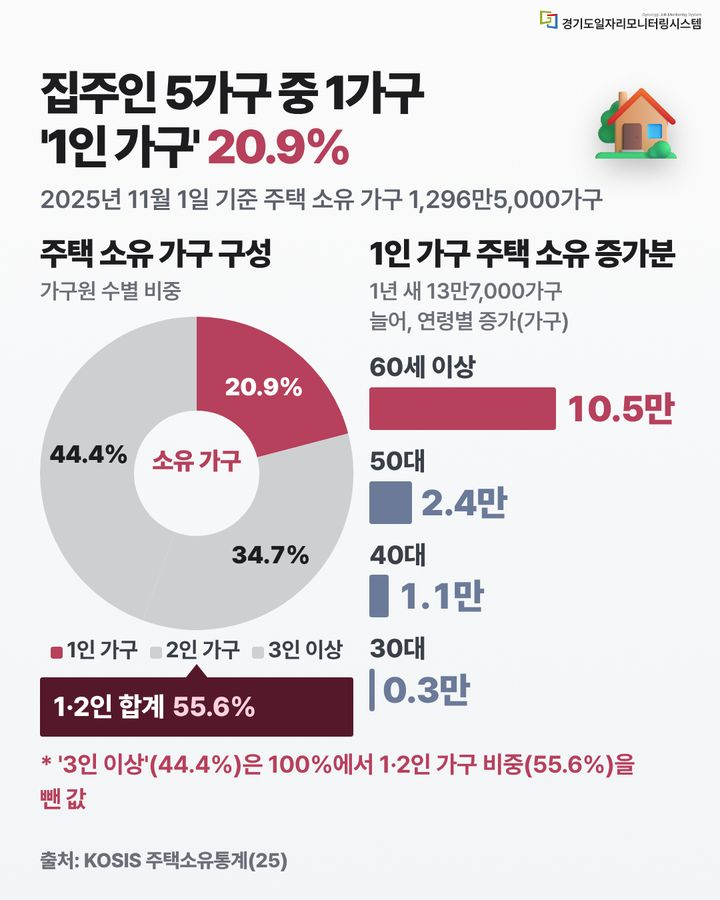
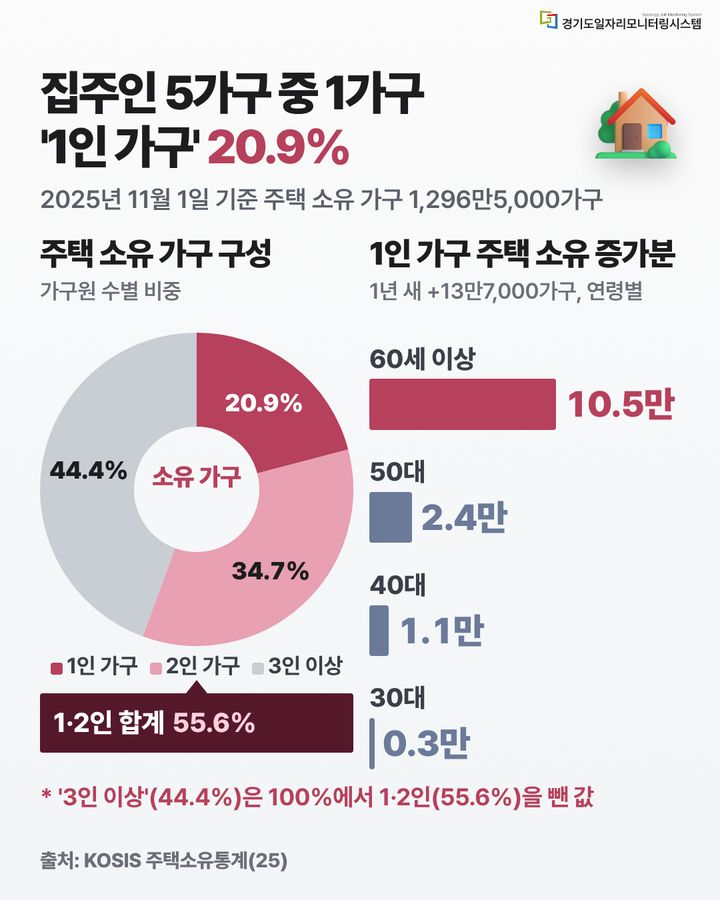
261124 웹페이지 최종 확정본 갱신
Claude-Session: https://claude.ai/code/session_015uJhCQnpBJPePtGQu9LJ56

Changed region(s): [[0.0306, 0.3422, 0.8861, 0.9022], [0.4889, 0.3111, 0.9167, 0.4356], [0.7944, 0.4356, 0.9472, 0.4667]]

diff --git a/daily/2026-11-24/index.html b/daily/2026-11-24/index.html
@@ -1,20 +1,20 @@
 <!doctype html><html lang="ko"><head><meta charset="utf-8"><meta name="viewport" content="width=device-width,initial-scale=1"><title>11.24.(화) 데일리 그래픽뉴스 | 경기도일자리모니터링시스템</title>
 <meta property="og:title" content="11.24.(화) 데일리 그래픽뉴스 | 경기도일자리모니터링시스템"><meta property="og:description" content="오늘의 일자리·경제 뉴스·통계 15건, 제목과 출처를 확인하세요"><meta property="og:image" content="https://gjfdata.github.io/daily/2026-11-24/preview.jpg"><meta property="og:url" content="https://gjfdata.github.io/daily/2026-11-24/"><meta property="og:type" content="website"><meta name="description" content="오늘의 일자리·경제 뉴스·통계 15건, 제목과 출처를 확인하세요">
 <link rel="stylesheet" href="https://cdn.jsdelivr.net/gh/orioncactus/pretendard@v1.3.9/dist/web/static/pretendard.css"><link rel="stylesheet" href="../../assets/style.css"></head><body><div class="w"><img class="ci" src="../../assets/ci.png" alt="경기도일자리모니터링시스템"><h1>11.24.(화) 데일리 그래픽뉴스</h1><p class="sub">오늘의 일자리·경제 뉴스·통계 15건</p>
-<div class="grid"><button data-card="cards/01.jpg" aria-label="01번 카드 크게 보기"><img src="cards/01.jpg" alt="01번 카드: 남녀 임금 격차 27.8% OECD 13개국 중 1위" loading="lazy"><span>01</span></button><button data-card="cards/02.jpg" aria-label="02번 카드 크게 보기"><img src="cards/02.jpg" alt="02번 카드: 정년 65세 연장 정부 연내 처리 vs 국민의힘 신중론" loading="lazy"><span>02</span></button><button data-card="cards/03.jpg" aria-label="03번 카드 크게 보기"><img src="cards/03.jpg" alt="03번 카드: 경기도 10월 수출 466.8억 달러 전국 1위" loading="lazy"><span>03</span></button><button data-card="cards/04.jpg" aria-label="04번 카드 크게 보기"><img src="cards/04.jpg" alt="04번 카드: 11월 1~20일 수출 774억 달러 101.5% 증가" loading="lazy"><span>04</span></button><button data-card="cards/05.jpg" aria-label="05번 카드 크게 보기"><img src="cards/05.jpg" alt="05번 카드: 11월 소비자심리지수 103.1 두 달 연속 하락" loading="lazy"><span>05</span></button><button data-card="cards/06.jpg" aria-label="06번 카드 크게 보기"><img src="cards/06.jpg" alt="06번 카드: 코스피 11월 -17.8%, 올해 월간 등락률" loading="lazy"><span>06</span></button><button data-card="cards/07.jpg" aria-label="07번 카드 크게 보기"><img src="cards/07.jpg" alt="07번 카드: 개미 563조 손실 추산, 외국인 224조 순매도" loading="lazy"><span>07</span></button><button data-card="cards/08.jpg" aria-label="08번 카드 크게 보기"><img src="cards/08.jpg" alt="08번 카드: 1~9월 나랏빚 이자 25조7,760억 원 역대 최대" loading="lazy"><span>08</span></button><button data-card="cards/09.jpg" aria-label="09번 카드 크게 보기"><img src="cards/09.jpg" alt="09번 카드: 배달 치킨 2만5천원 중 6,100원이 수수료·배달비" loading="lazy"><span>09</span></button><button data-card="cards/10.jpg" aria-label="10번 카드 크게 보기"><img src="cards/10.jpg" alt="10번 카드: 생계급여 기준 중위소득 32→35%로 확대" loading="lazy"><span>10</span></button><button data-card="cards/11.jpg" aria-label="11번 카드 크게 보기"><img src="cards/11.jpg" alt="11번 카드: 주택 소유 가구 5곳 중 1곳은 1인 가구" loading="lazy"><span>11</span></button><button data-card="cards/12.jpg" aria-label="12번 카드 크게 보기"><img src="cards/12.jpg" alt="12번 카드: 젠슨 황 복귀에 엔비디아 31.5% 폭등 나스닥 6.51%" loading="lazy"><span>12</span></button><button data-card="cards/13.jpg" aria-label="13번 카드 크게 보기"><img src="cards/13.jpg" alt="13번 카드: 최태원, 노소영에 재산분할 9440억 전액 지급 의사" loading="lazy"><span>13</span></button><button data-card="cards/14.jpg" aria-label="14번 카드 크게 보기"><img src="cards/14.jpg" alt="14번 카드: 미국 피자 매장 7년 새 9,600곳 감소" loading="lazy"><span>14</span></button><button data-card="cards/15.jpg" aria-label="15번 카드 크게 보기"><img src="cards/15.jpg" alt="15번 카드: 국정원장 강금실 등 5개 부처 장관급 개각" loading="lazy"><span>15</span></button></div><p class="hint">카드를 누르면 한 장씩 크게 볼 수 있습니다.</p><ol>
+<div class="grid"><button data-card="cards/01.jpg" aria-label="01번 카드 크게 보기"><img src="cards/01.jpg" alt="01번 카드: 남녀 임금 격차 27.8% OECD 13개국 중 1위" loading="lazy"><span>01</span></button><button data-card="cards/02.jpg" aria-label="02번 카드 크게 보기"><img src="cards/02.jpg" alt="02번 카드: 정년 65세 연장 정부 연내 처리 vs 국민의힘 신중론" loading="lazy"><span>02</span></button><button data-card="cards/03.jpg" aria-label="03번 카드 크게 보기"><img src="cards/03.jpg" alt="03번 카드: 경기도 10월 수출 466.8억 달러 전국 1위" loading="lazy"><span>03</span></button><button data-card="cards/04.jpg" aria-label="04번 카드 크게 보기"><img src="cards/04.jpg" alt="04번 카드: 11월 1~20일 수출 774억 달러 101.5% 증가" loading="lazy"><span>04</span></button><button data-card="cards/05.jpg" aria-label="05번 카드 크게 보기"><img src="cards/05.jpg" alt="05번 카드: 11월 소비자심리지수 103.1 두 달 연속 하락" loading="lazy"><span>05</span></button><button data-card="cards/06.jpg" aria-label="06번 카드 크게 보기"><img src="cards/06.jpg" alt="06번 카드: 코스피 11월 -17.8%, 올해 월간 등락률" loading="lazy"><span>06</span></button><button data-card="cards/07.jpg" aria-label="07번 카드 크게 보기"><img src="cards/07.jpg" alt="07번 카드: 개미 563조 손실 추산, 외국인 224조 순매도" loading="lazy"><span>07</span></button><button data-card="cards/08.jpg" aria-label="08번 카드 크게 보기"><img src="cards/08.jpg" alt="08번 카드: 1~9월 나랏빚 이자 25조7,760억 원 역대 최대" loading="lazy"><span>08</span></button><button data-card="cards/09.jpg" aria-label="09번 카드 크게 보기"><img src="cards/09.jpg" alt="09번 카드: 배달 치킨 2만5천원 중 6,100원이 수수료·배달비" loading="lazy"><span>09</span></button><button data-card="cards/10.jpg" aria-label="10번 카드 크게 보기"><img src="cards/10.jpg" alt="10번 카드: 생계급여 기준 중위소득 32→35%로 확대" loading="lazy"><span>10</span></button><button data-card="cards/11.jpg" aria-label="11번 카드 크게 보기"><img src="cards/11.jpg" alt="11번 카드: 주택 소유 가구 5곳 중 1곳은 1인 가구" loading="lazy"><span>11</span></button><button data-card="cards/12.jpg" aria-label="12번 카드 크게 보기"><img src="cards/12.jpg" alt="12번 카드: 젠슨 황 복귀에 엔비디아 31.5% 폭등 나스닥 6.51%" loading="lazy"><span>12</span></button><button data-card="cards/13.jpg" aria-label="13번 카드 크게 보기"><img src="cards/13.jpg" alt="13번 카드: 손정의 SK하이닉스 1조 달러 인수 검토 보도" loading="lazy"><span>13</span></button><button data-card="cards/14.jpg" aria-label="14번 카드 크게 보기"><img src="cards/14.jpg" alt="14번 카드: 미국 피자 매장 7년 새 9,600곳 감소" loading="lazy"><span>14</span></button><button data-card="cards/15.jpg" aria-label="15번 카드 크게 보기"><img src="cards/15.jpg" alt="15번 카드: 국정원장 강금실 등 5개 부처 장관급 개각" loading="lazy"><span>15</span></button></div><p class="hint">카드를 누르면 한 장씩 크게 볼 수 있습니다.</p><ol>
 <li><span class="n"><button data-card="cards/01.jpg" aria-label="01번 카드 크게 보기">01</button></span><div><b>남녀 임금 격차 27.8% OECD 13개국 중 1위</b><span class="s"><a href="https://news.nate.com/view/20261123n02403" target="_blank" rel="noopener">OECD 성별 임금 격차(25)</a></span></div></li>
 <li><span class="n"><button data-card="cards/02.jpg" aria-label="02번 카드 크게 보기">02</button></span><div><b>정년 65세 연장 정부 연내 처리 vs 국민의힘 신중론</b><span class="s"><a href="https://n.news.naver.com/mnews/article/018/0006414389" target="_blank" rel="noopener">이데일리 「국힘 반발 정년연장 신중해야」(26.11.23)</a></span></div></li>
-<li><span class="n"><button data-card="cards/03.jpg" aria-label="03번 카드 크게 보기">03</button></span><div><b>경기도 10월 수출 466.8억 달러 전국 1위</b><span class="s">KOSIS 시도별 수출입(26.10)<br>· <a href="https://kosis.kr/statHtml/statHtml.do?orgId=101&amp;tblId=DT_1YL6901" target="_blank" rel="noopener">수출액(시도) DT_1YL6901</a><br>· <a href="https://kosis.kr/statHtml/statHtml.do?orgId=101&amp;tblId=DT_1YL7001" target="_blank" rel="noopener">수입액(시도) DT_1YL7001</a></span></div></li>
+<li><span class="n"><button data-card="cards/03.jpg" aria-label="03번 카드 크게 보기">03</button></span><div><b>경기도 10월 수출 466.8억 달러 전국 1위</b><span class="s">KOSIS 시도별 수출입(26.10)<br>· <a href="https://kosis.kr/statHtml/statHtml.do?orgId=101&amp;tblId=DT_1YL6901&amp;vw_cd=MT_ZTITLE&amp;list_id=&amp;seqNo=&amp;lang_mode=ko&amp;language=kor&amp;obj_var_id=&amp;itm_id=&amp;conn_path=MT_ZTITLE" target="_blank" rel="noopener">수출액(시도) DT_1YL6901</a><br>· <a href="https://kosis.kr/statHtml/statHtml.do?orgId=101&amp;tblId=DT_1YL7001&amp;vw_cd=MT_ZTITLE&amp;list_id=&amp;seqNo=&amp;lang_mode=ko&amp;language=kor&amp;obj_var_id=&amp;itm_id=&amp;conn_path=MT_ZTITLE" target="_blank" rel="noopener">수입액(시도) DT_1YL7001</a></span></div></li>
 <li><span class="n"><button data-card="cards/04.jpg" aria-label="04번 카드 크게 보기">04</button></span><div><b>11월 1~20일 수출 774억 달러 101.5% 증가</b><span class="s">관세청 11월 1~20일 수출입 현황(26.11.23)<br>· <a href="https://www.sisajournal-e.com/news/articleView.html?idxno=425231" target="_blank" rel="noopener">국가별 증가율(시사저널e)</a><br>· <a href="https://news.kbs.co.kr/news/pc/view/view.do?ncd=8719693" target="_blank" rel="noopener">반도체 294.4%(KBS)</a></span></div></li>
 <li><span class="n"><button data-card="cards/05.jpg" aria-label="05번 카드 크게 보기">05</button></span><div><b>11월 소비자심리지수 103.1 두 달 연속 하락</b><span class="s"><a href="https://n.news.naver.com/mnews/article/018/0006414444" target="_blank" rel="noopener">한국은행 11월 소비자동향조사(26.11.24)</a></span></div></li>
-<li><span class="n"><button data-card="cards/06.jpg" aria-label="06번 카드 크게 보기">06</button></span><div><b>코스피 11월 -17.8%, 올해 월간 등락률</b><span class="s">한국거래소 코스피 지수(26.11.23)<br>· <a href="https://ecos.bok.or.kr/#/SearchStat (802Y001 주식시장(일) KOSPI지수)" target="_blank" rel="noopener">월말 종가(한국은행 ECOS 802Y001)</a><br>· <a href="https://www.jabon.co.kr/news/articleView.html?idxno=9101" target="_blank" rel="noopener">23일 마감·사이드카(자본시장뉴스)</a></span></div></li>
+<li><span class="n"><button data-card="cards/06.jpg" aria-label="06번 카드 크게 보기">06</button></span><div><b>코스피 11월 -17.8%, 올해 월간 등락률</b><span class="s">한국거래소 코스피 지수(26.11.23)<br>· <a href="https://ecos.bok.or.kr/#/SearchStat" target="_blank" rel="noopener">월말 종가: 한국은행 ECOS 1.5.1.1 주식시장(일) KOSPI지수(802Y001)</a><br>· <a href="https://www.jabon.co.kr/news/articleView.html?idxno=9101" target="_blank" rel="noopener">23일 마감·사이드카(자본시장뉴스)</a></span></div></li>
 <li><span class="n"><button data-card="cards/07.jpg" aria-label="07번 카드 크게 보기">07</button></span><div><b>개미 563조 손실 추산, 외국인 224조 순매도</b><span class="s"><a href="https://news.nate.com/view/20261123n00390" target="_blank" rel="noopener">조선일보 「개미들 563조 잃고 빚더미」(26.11.23)</a></span></div></li>
 <li><span class="n"><button data-card="cards/08.jpg" aria-label="08번 카드 크게 보기">08</button></span><div><b>1~9월 나랏빚 이자 25조7,760억 원 역대 최대</b><span class="s"><a href="https://n.news.naver.com/mnews/article/003/0014336565" target="_blank" rel="noopener">기획예산처 1~9월 통합재정수지(26.11.20)</a></span></div></li>
 <li><span class="n"><button data-card="cards/09.jpg" aria-label="09번 카드 크게 보기">09</button></span><div><b>배달 치킨 2만5천원 중 6,100원이 수수료·배달비</b><span class="s"><a href="https://news.nate.com/view/20261123n00988" target="_blank" rel="noopener">머니투데이 「치킨 3만원인데 남는 게 없다고」(26.11.23)</a></span></div></li>
 <li><span class="n"><button data-card="cards/10.jpg" aria-label="10번 카드 크게 보기">10</button></span><div><b>생계급여 기준 중위소득 32→35%로 확대</b><span class="s"><a href="https://n.news.naver.com/mnews/article/081/0003702366" target="_blank" rel="noopener">서울신문 「문턱 낮춘 생계급여」(26.11.24)</a></span></div></li>
 <li><span class="n"><button data-card="cards/11.jpg" aria-label="11번 카드 크게 보기">11</button></span><div><b>주택 소유 가구 5곳 중 1곳은 1인 가구</b><span class="s"><a href="https://n.news.naver.com/mnews/article/018/0006413593" target="_blank" rel="noopener">KOSIS 주택소유통계(25)</a></span></div></li>
 <li><span class="n"><button data-card="cards/12.jpg" aria-label="12번 카드 크게 보기">12</button></span><div><b>젠슨 황 복귀에 엔비디아 31.5% 폭등 나스닥 6.51%</b><span class="s">연합뉴스 「젠슨황 복귀에 나스닥 6%대 급등 마감」(26.11.24)<br>· <a href="https://n.news.naver.com/mnews/article/001/0016459383" target="_blank" rel="noopener">지수·엔비디아 종가(연합뉴스)</a><br>· <a href="https://n.news.naver.com/article/018/0006414411" target="_blank" rel="noopener">복귀 경위·트럼프 발언(이데일리)</a></span></div></li>
-<li><span class="n"><button data-card="cards/13.jpg" aria-label="13번 카드 크게 보기">13</button></span><div><b>최태원, 노소영에 재산분할 9440억 전액 지급 의사</b><span class="s"><a href="https://n.news.naver.com/mnews/article/011/0004685345" target="_blank" rel="noopener">서울경제 「최태원 재산분할 9440억 전액 지급 결심」(26.11.24)</a></span></div></li>
+<li><span class="n"><button data-card="cards/13.jpg" aria-label="13번 카드 크게 보기">13</button></span><div><b>손정의 SK하이닉스 1조 달러 인수 검토 보도</b><span class="s">동아일보 「손정의 하이닉스 1조달러 인수 검토」(26.11.23)<br>· <a href="https://news.nate.com/view/20261123n00269" target="_blank" rel="noopener">인수 검토 보도(동아일보)</a><br>· <a href="https://n.news.naver.com/mnews/article/092/0002446328" target="_blank" rel="noopener">시가총액 786조원(지디넷코리아)</a></span></div></li>
 <li><span class="n"><button data-card="cards/14.jpg" aria-label="14번 카드 크게 보기">14</button></span><div><b>미국 피자 매장 7년 새 9,600곳 감소</b><span class="s"><a href="https://news.nate.com/view/20261123n10809" target="_blank" rel="noopener">매일경제 「美 피자가게 9600곳 사라졌다」(26.11.23)</a></span></div></li>
 <li><span class="n"><button data-card="cards/15.jpg" aria-label="15번 카드 크게 보기">15</button></span><div><b>국정원장 강금실 등 5개 부처 장관급 개각</b><span class="s"><a href="https://n.news.naver.com/mnews/article/214/0001537535" target="_blank" rel="noopener">MBC 「석 달 만에 중폭 개각 최초 여성 국정원장」(26.11.24)</a></span></div></li>
 </ol><div class="cta"><div>경기도 31개 시군 일자리 통계는 경기도일자리모니터링시스템에서 확인하세요</div><a class="btn" href="https://stats.gjf.or.kr/open/dashboard/dashboard.do?utm_source=dailynews&amp;utm_medium=webpage&amp;utm_campaign=261124" target="_blank" rel="noopener">stats.gjf.or.kr 바로가기</a></div>
